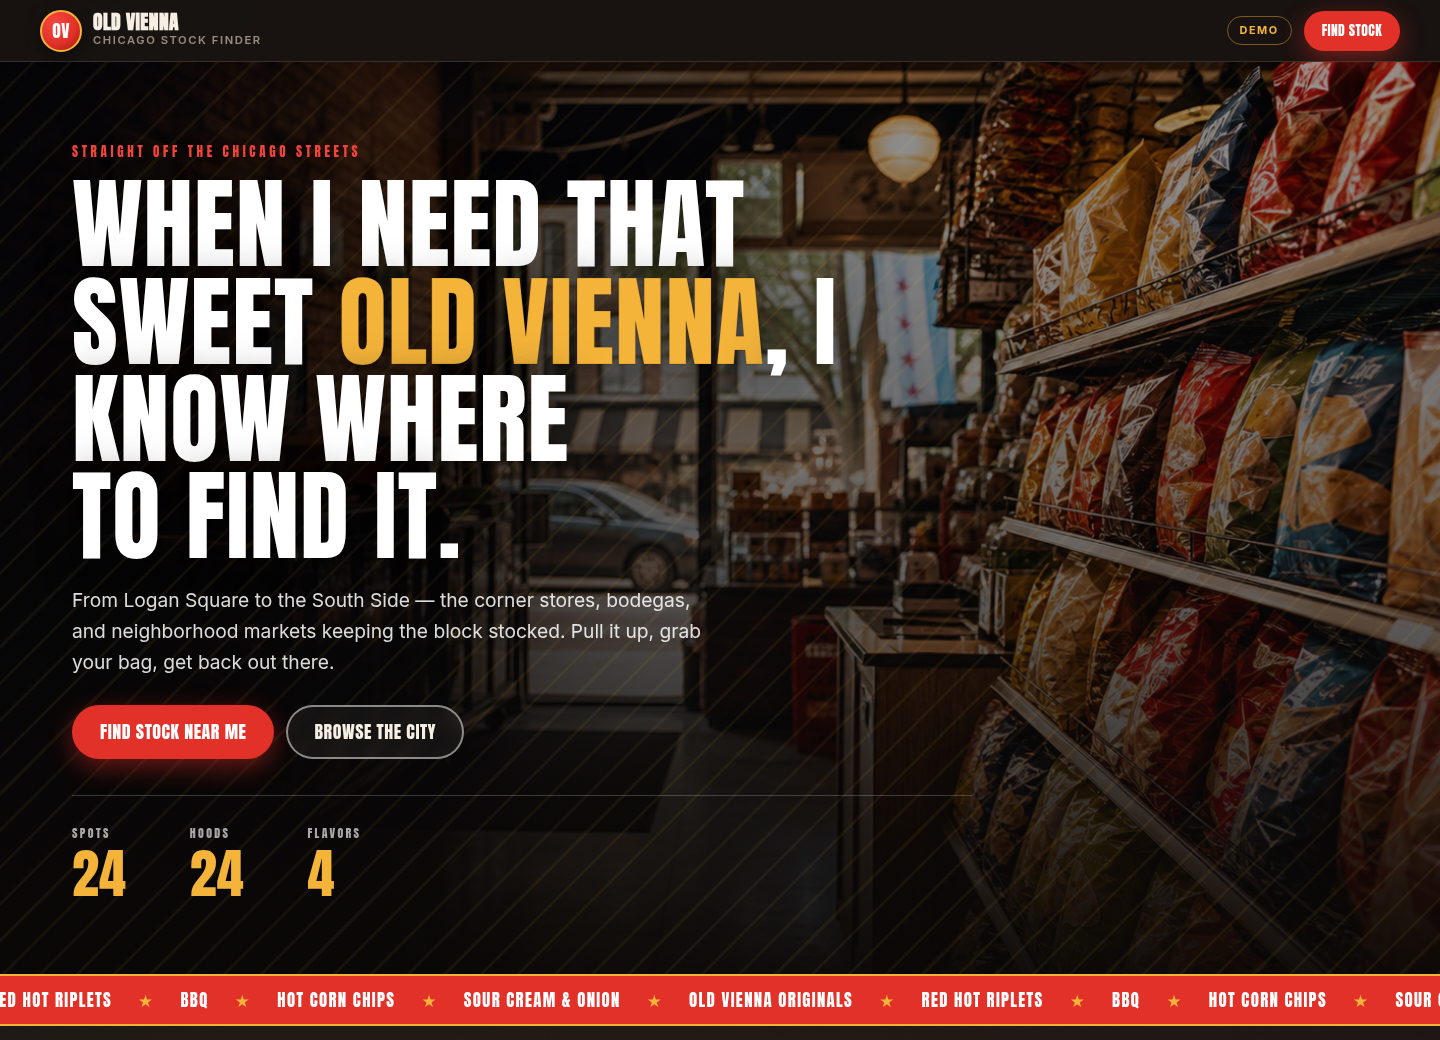
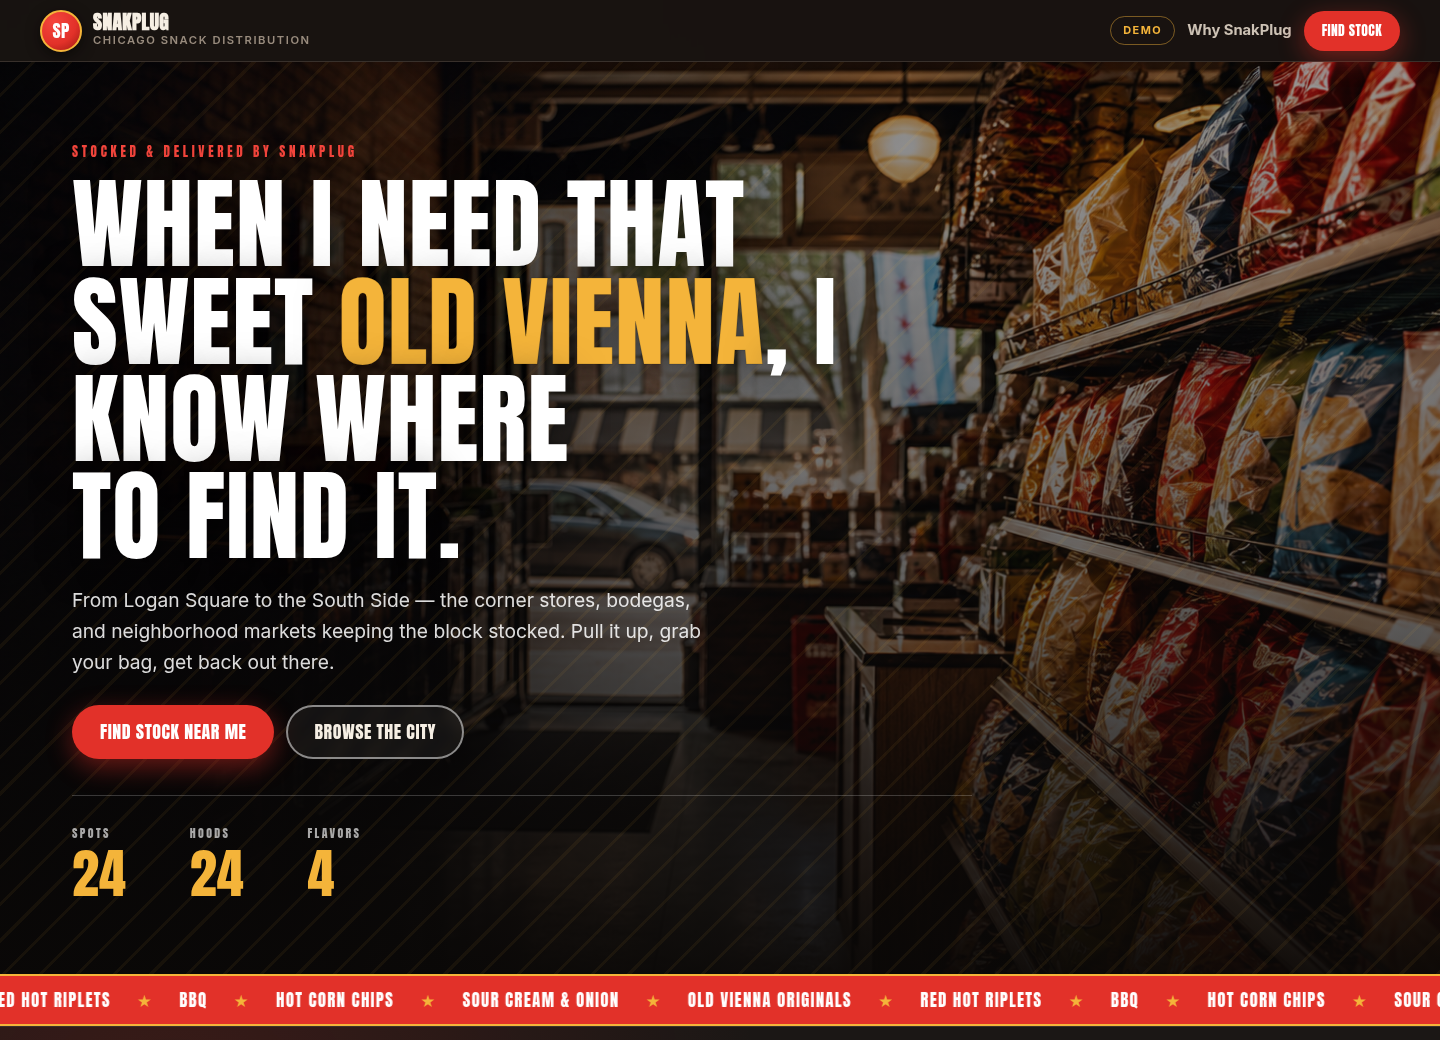
Brand the site as SnakPlug; add distribution story + mascot
- Position the site as SnakPlug's (the Chicago distributor): co-brand
  header/footer, SnakPlug favicon, and credit "Stocked & delivered by
  SnakPlug" in the hero
- Add a "SnakPlug runs the routes" section featuring the delivery-driver
  mascot (optimized 2.2MB -> 236KB), Find/Stock/Deliver value props,
  sample routes, and the "Local. Delivered. Loved." stamp
- Reframe the retailer CTA into a SnakPlug partnership pitch
- Update README and preview to lead with SnakPlug

diff --git a/styles.css b/styles.css
@@ -220,6 +220,20 @@ h3 {
   border: 1px solid rgba(244, 180, 58, 0.45);
   border-radius: var(--radius-pill);
 }
+.topnav-link {
+  color: var(--text-soft);
+  font-weight: 700;
+  font-size: 0.92rem;
+  transition: color 0.16s ease;
+}
+.topnav-link:hover {
+  color: var(--gold);
+}
+@media (max-width: 640px) {
+  .topnav-link {
+    display: none;
+  }
+}
 
 /* ---------- Eyebrows ---------- */
 .eyebrow {
@@ -341,6 +355,151 @@ h1 .accent {
 @keyframes ticker {
   to {
     transform: translateX(-50%);
+  }
+}
+
+/* ---------- SnakPlug story ---------- */
+.plug {
+  position: relative;
+  padding: clamp(48px, 8vw, 100px) clamp(20px, 5vw, 76px);
+  background:
+    radial-gradient(circle at 12% 16%, rgba(226, 49, 41, 0.16), transparent 42%),
+    radial-gradient(circle at 90% 90%, rgba(244, 180, 58, 0.1), transparent 40%),
+    var(--bg-2);
+  border-top: 1px solid var(--line);
+  border-bottom: 1px solid var(--line);
+}
+.plug-inner {
+  display: grid;
+  grid-template-columns: minmax(0, 0.9fr) minmax(0, 1.1fr);
+  align-items: center;
+  gap: clamp(28px, 5vw, 64px);
+  max-width: 1180px;
+  margin: 0 auto;
+}
+.plug-art {
+  position: relative;
+  margin: 0;
+  justify-self: center;
+  width: min(440px, 100%);
+}
+.plug-art img {
+  display: block;
+  width: 100%;
+  height: auto;
+  border-radius: 50%;
+  box-shadow: 0 24px 70px rgba(0, 0, 0, 0.55), 0 0 0 4px rgba(244, 180, 58, 0.25);
+}
+.plug-stamp {
+  position: absolute;
+  left: 50%;
+  bottom: -16px;
+  transform: translateX(-50%) rotate(-3deg);
+  padding: 9px 20px;
+  font-family: var(--font-display);
+  font-size: 0.95rem;
+  letter-spacing: 0.06em;
+  text-transform: uppercase;
+  color: var(--bg);
+  background: var(--gold);
+  border-radius: var(--radius-pill);
+  box-shadow: 0 10px 24px rgba(0, 0, 0, 0.5);
+  white-space: nowrap;
+}
+.plug-copy h2 {
+  font-size: clamp(2.4rem, 6vw, 4rem);
+  margin: 8px 0 18px;
+}
+.plug-lead {
+  max-width: 52ch;
+  font-size: 1.06rem;
+  line-height: 1.6;
+  color: var(--text-soft);
+}
+.plug-lead strong {
+  color: var(--gold);
+}
+.plug-points {
+  list-style: none;
+  margin: 22px 0 0;
+  padding: 0;
+  display: grid;
+  gap: 12px;
+}
+.plug-points li {
+  display: flex;
+  align-items: center;
+  gap: 14px;
+  font-size: 1rem;
+  color: var(--text);
+}
+.plug-verb {
+  flex: 0 0 auto;
+  display: inline-grid;
+  place-items: center;
+  min-width: 84px;
+  padding: 7px 10px;
+  font-family: var(--font-display);
+  font-size: 0.92rem;
+  letter-spacing: 0.04em;
+  text-transform: uppercase;
+  color: #fff;
+  background: var(--red);
+  border-radius: var(--radius-pill);
+  box-shadow: var(--glow-red);
+}
+.plug-routes {
+  display: flex;
+  flex-wrap: wrap;
+  gap: 8px;
+  margin-top: 26px;
+}
+.route-tag {
+  display: inline-flex;
+  align-items: center;
+  gap: 6px;
+  padding: 7px 14px;
+  font-size: 0.82rem;
+  font-weight: 700;
+  letter-spacing: 0.02em;
+  color: var(--text-soft);
+  background: rgba(255, 255, 255, 0.04);
+  border: 1px solid var(--line-strong);
+  border-radius: var(--radius-pill);
+}
+.route-tag::before {
+  content: "";
+  width: 7px;
+  height: 7px;
+  background: var(--gold);
+  border-radius: 50%;
+}
+.route-tag-more {
+  color: var(--gold);
+  border-color: rgba(244, 180, 58, 0.4);
+}
+.route-tag-more::before {
+  background: var(--red-bright);
+}
+
+@media (max-width: 820px) {
+  .plug-inner {
+    grid-template-columns: 1fr;
+    text-align: center;
+  }
+  .plug-art {
+    width: min(340px, 78%);
+  }
+  .plug-lead {
+    margin-inline: auto;
+  }
+  .plug-points {
+    text-align: left;
+    max-width: 420px;
+    margin-inline: auto;
+  }
+  .plug-routes {
+    justify-content: center;
   }
 }
 

diff --git a/index.html b/index.html
@@ -4,10 +4,10 @@
     <meta charset="utf-8" />
     <meta name="viewport" content="width=device-width, initial-scale=1, viewport-fit=cover" />
     <meta name="theme-color" content="#141110" />
-    <title>Old Vienna · Find Your Stock — Chicago</title>
+    <title>SnakPlug · Find Old Vienna Across Chicago</title>
     <meta
       name="description"
-      content="When you need more of that sweet Old Vienna, you know where to find it. The corner stores and neighborhood markets keeping Chicago stocked."
+      content="SnakPlug keeps Chicago stocked. Find the corner stores and neighborhood markets carrying Old Vienna — local, delivered, loved, block by block."
     />
     <link rel="icon" href="favicon.svg" type="image/svg+xml" />
 
@@ -21,15 +21,16 @@
   </head>
   <body>
     <header class="topbar" aria-label="Site header">
-      <a class="brand" href="./" aria-label="Old Vienna — Chicago stock finder">
-        <span class="brand-mark" aria-hidden="true">OV</span>
+      <a class="brand" href="./" aria-label="SnakPlug — Chicago snack distribution">
+        <span class="brand-mark" aria-hidden="true">SP</span>
         <span class="brand-text">
-          <strong>Old Vienna</strong>
-          <small>Chicago Stock Finder</small>
+          <strong>SnakPlug</strong>
+          <small>Chicago Snack Distribution</small>
         </span>
       </a>
       <nav class="topnav" aria-label="Primary">
         <span class="demo-flag" title="Demonstration data">Demo</span>
+        <a class="topnav-link" href="#snakplug">Why SnakPlug</a>
         <a class="btn btn-red btn-sm" href="#finder">Find stock</a>
       </nav>
     </header>
@@ -37,7 +38,7 @@
     <main>
       <section class="hero" aria-labelledby="page-title">
         <div class="hero-inner">
-          <p class="eyebrow">Straight off the Chicago streets</p>
+          <p class="eyebrow">Stocked &amp; delivered by SnakPlug</p>
           <h1 id="page-title">
             When I need that sweet <span class="accent">Old Vienna</span>,
             I know where to&nbsp;find&nbsp;it.
@@ -68,6 +69,43 @@
           <span>Old Vienna Originals</span><span class="dot">★</span>
         </div>
       </div>
+
+      <section class="plug" id="snakplug" aria-labelledby="plug-title">
+        <div class="plug-inner">
+          <figure class="plug-art">
+            <img
+              src="assets/snakplug-driver.png"
+              width="820"
+              height="820"
+              alt="SnakPlug's Old Vienna delivery driver mascot rolling a hand truck of product with a Chicago route plan"
+              loading="lazy"
+            />
+            <figcaption class="plug-stamp">Local · Delivered · Loved</figcaption>
+          </figure>
+          <div class="plug-copy">
+            <p class="eyebrow eyebrow-gold">The plug behind the snack</p>
+            <h2 id="plug-title">SnakPlug runs<br />the&nbsp;routes.</h2>
+            <p class="plug-lead">
+              Every bag on this map got there because <strong>SnakPlug</strong> put
+              it there. We hunt down the storefronts, stock the shelves, and run the
+              deliveries that keep Old Vienna in hands all over Chicago — block by
+              block, route by route.
+            </p>
+            <ul class="plug-points">
+              <li><span class="plug-verb">Find</span> the right storefronts in every neighborhood</li>
+              <li><span class="plug-verb">Stock</span> the shelves and keep them full</li>
+              <li><span class="plug-verb">Deliver</span> fresh, fast, and local</li>
+            </ul>
+            <div class="plug-routes" aria-label="Sample delivery routes">
+              <span class="route-tag">West Loop</span>
+              <span class="route-tag">Pilsen</span>
+              <span class="route-tag">Lincoln Park</span>
+              <span class="route-tag">South Loop</span>
+              <span class="route-tag route-tag-more">+ the whole city</span>
+            </div>
+          </div>
+        </div>
+      </section>
 
       <section class="finder" id="finder" aria-label="Stock finder">
         <div class="control-bar">
@@ -113,28 +151,31 @@
       <section class="cta-band" aria-label="Retailer call to action">
         <div class="cta-inner">
           <p class="eyebrow eyebrow-gold">Run a shop?</p>
-          <h2>Put Old Vienna on your shelves.</h2>
+          <h2>Get SnakPlug on your block.</h2>
           <p class="cta-sub">
             Independent grocers and corner stores across Chicagoland move serious
-            Old Vienna. Stock the block and get found by the whole neighborhood.
+            volume with SnakPlug. We bring the product, the displays, and the
+            delivery route — you bring the shelf. Let's stock the block.
           </p>
-          <a class="btn btn-cream btn-lg" href="mailto:[email redacted]?subject=Become%20an%20Old%20Vienna%20stockist">Become a stockist</a>
+          <a class="btn btn-cream btn-lg" href="mailto:[email redacted]?subject=Partner%20with%20SnakPlug">Partner with SnakPlug</a>
         </div>
       </section>
     </main>
 
     <footer class="footer">
       <div class="footer-brand">
-        <span class="brand-mark small" aria-hidden="true">OV</span>
-        <span>Old Vienna · Chicago Stock Finder</span>
+        <span class="brand-mark small" aria-hidden="true">SP</span>
+        <span>SnakPlug · Chicago Snack Distribution</span>
       </div>
       <nav class="footer-links" aria-label="Footer">
+        <a href="#snakplug">Why SnakPlug</a>
         <a href="#finder">Find stock</a>
-        <a href="mailto:[email redacted]?subject=Become%20an%20Old%20Vienna%20stockist">Become a stockist</a>
+        <a href="mailto:[email redacted]?subject=Partner%20with%20SnakPlug">Partner with SnakPlug</a>
         <a href="https://github.com/SnakPlug/locations" target="_blank" rel="noopener">Source on GitHub</a>
       </nav>
       <p class="footer-note">
-        Demonstration site with sample store data. Prepared by your design &amp; web team.
+        Old Vienna is a featured brand. Demonstration site with sample store data —
+        prepared by your design &amp; web team.
       </p>
     </footer>
 

diff --git a/README.md b/README.md
@@ -1,10 +1,12 @@
-# Old Vienna — Chicago Stock Finder
+# SnakPlug — Chicago Snack Distribution
 
 *When you need more of that sweet Old Vienna, you know where to find it.*
 
-A fast, mobile-first, app-style finder for the corner stores, bodegas, and
-neighborhood markets keeping **Old Vienna** on the shelf across Chicagoland.
-No map to fuss with — just a clean list of spots and one-tap directions.
+The official site for **SnakPlug**, the Chicago distributor that finds the
+storefronts, stocks the shelves, and gets **Old Vienna** into hands all over the
+city. The centerpiece is a fast, mobile-first, app-style finder for every spot
+SnakPlug keeps stocked — no map to fuss with, just a clean list and one-tap
+directions. *Local. Delivered. Loved.*
 
 🔗 **Live demo:** https://snakplug.github.io/locations/
 
@@ -12,7 +14,7 @@ No map to fuss with — just a clean list of spots and one-tap directions.
 > demonstration purposes — every record is flagged `demo` and labeled in the
 > UI. No real store inventory is published. See [Editing store data](#editing-store-data).
 
-![Old Vienna Chicago Stock Finder](docs/preview.png)
+![SnakPlug — Chicago Snack Distribution](docs/preview.png)
 
 ---
 